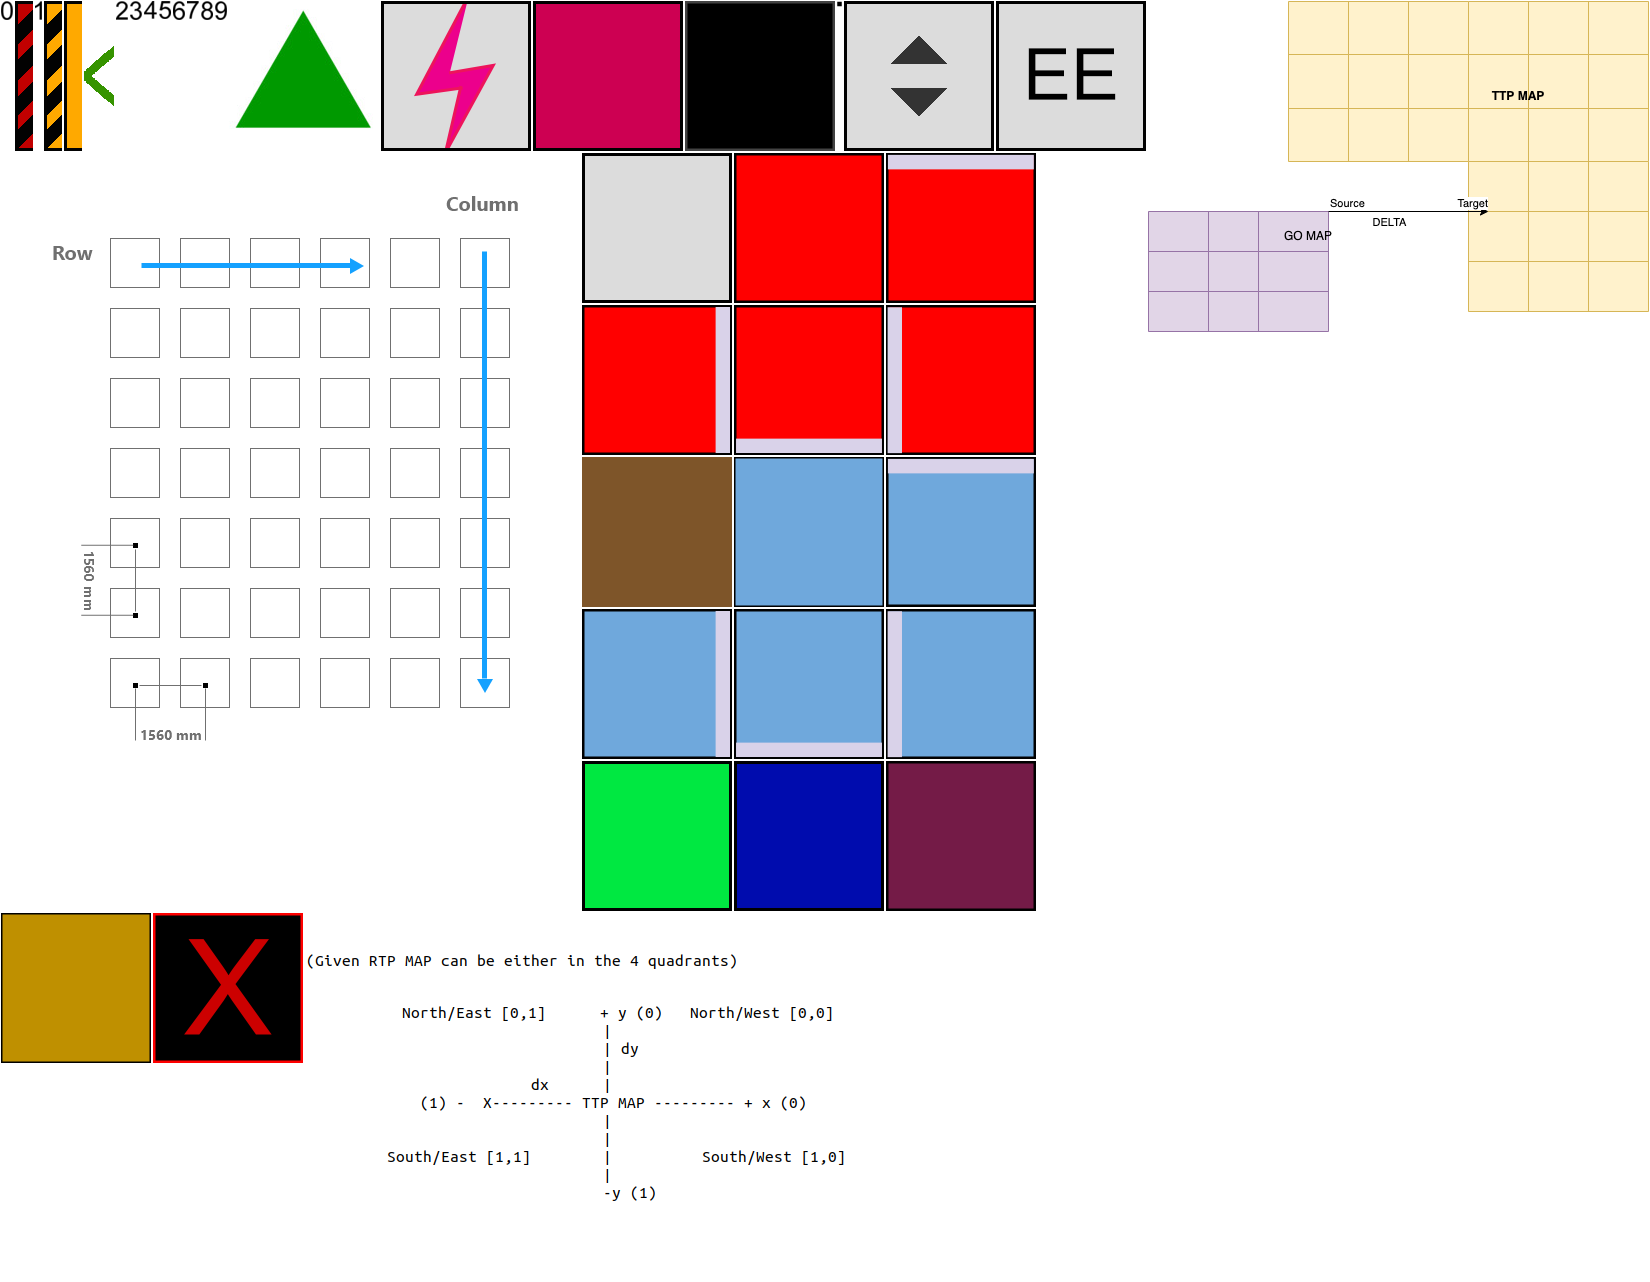
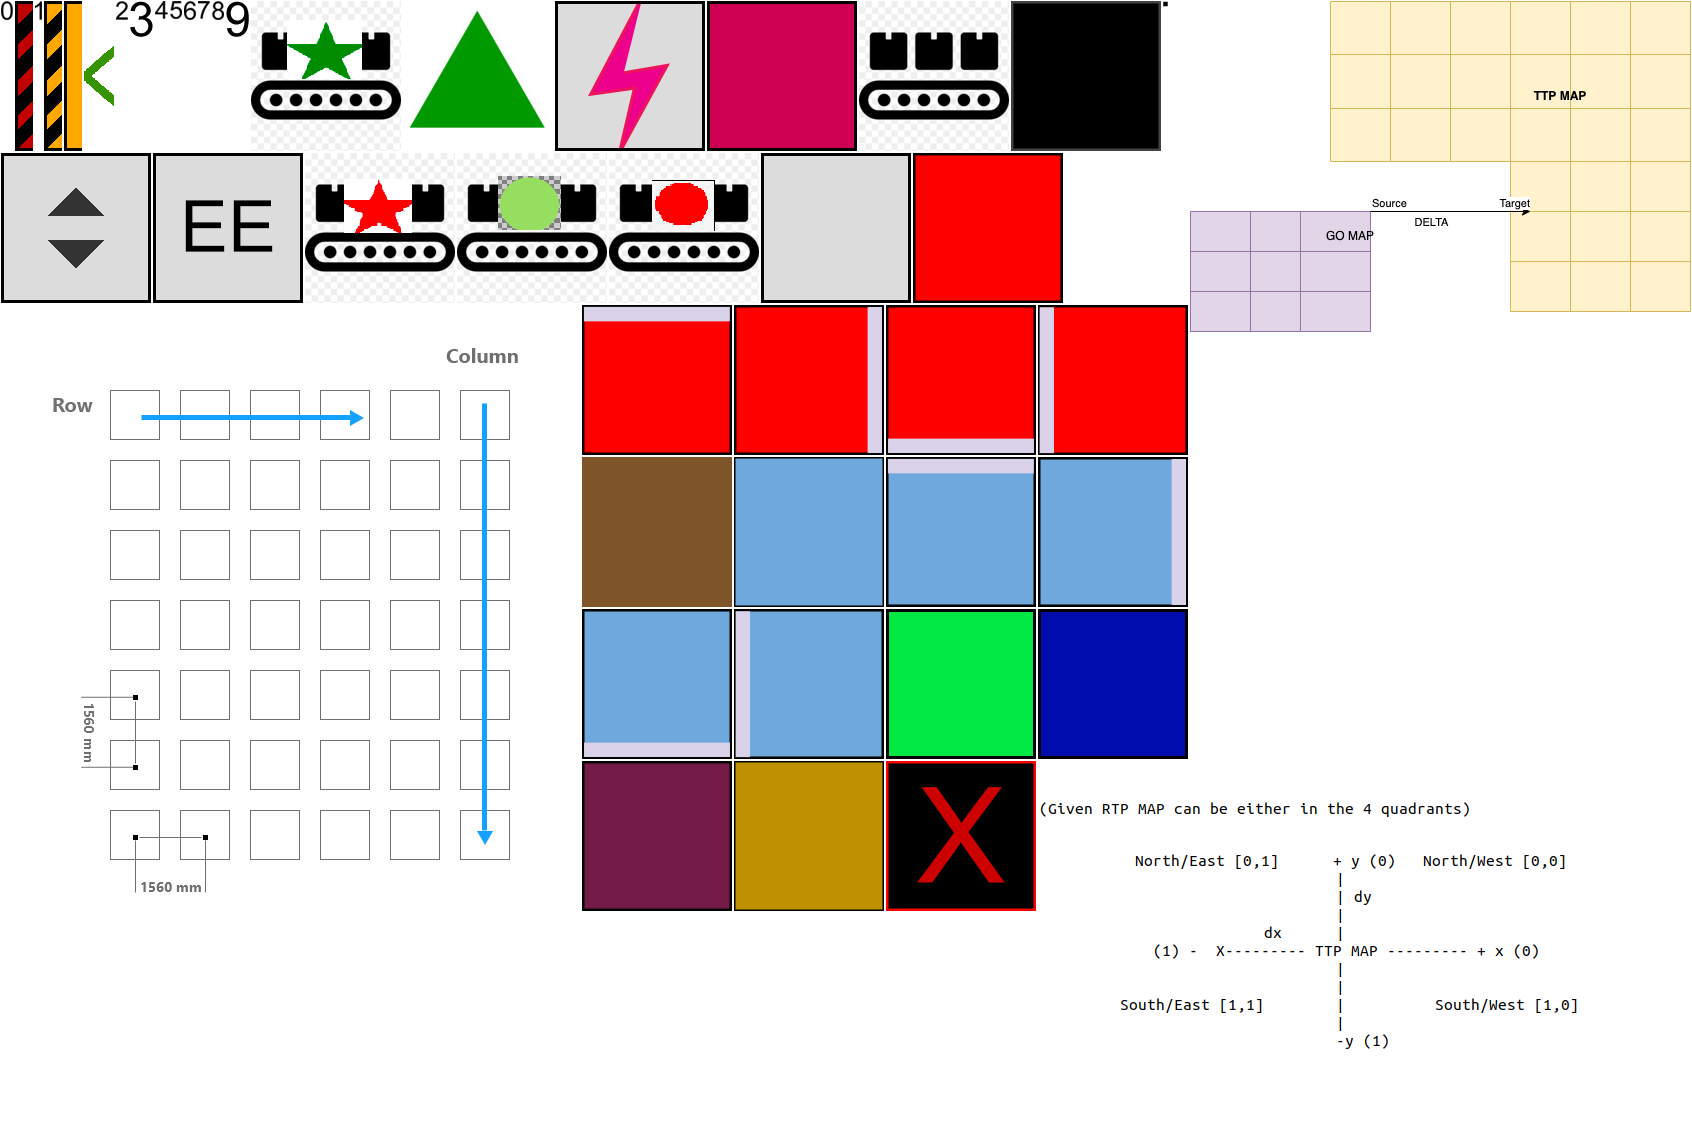
GM-96123 Locate barcode chnages

diff --git a/client/src/actions/actions.js b/client/src/actions/actions.js
@@ -207,9 +207,10 @@ export const barcodeCordMapping = (getState) => {
 export const getBarcodeDistance = (dispatch,getState,mapId) => {  
   const state = getState();
   var mapId = state.normalizedMap.entities.mapObj[parseInt(mapId)]
+  if (mapId.BaseMap.barcodeDistance.hasOwnProperty("barcodeDistance")){
   var barcodeDistance = mapId.BaseMap.barcodeDistance
   dispatch(setbarcodeDistance(barcodeDistance))
-
+}
 };
 
 

diff --git a/client/src/components/Map/Forms/LocateBarcode.js b/client/src/components/Map/Forms/LocateBarcode.js
@@ -26,7 +26,7 @@ class LocateBarcode extends Component {
           style={{ width: "150px" }}
         />
         <button
-          disabled={!regex.test(barcodeString)|| this.state.selection.conveyorMode === true}
+          disabled={!regex.test(barcodeString)}
           onClick={e => {
             e.preventDefault();
             dispatch(locateBarcode(barcodeString));
